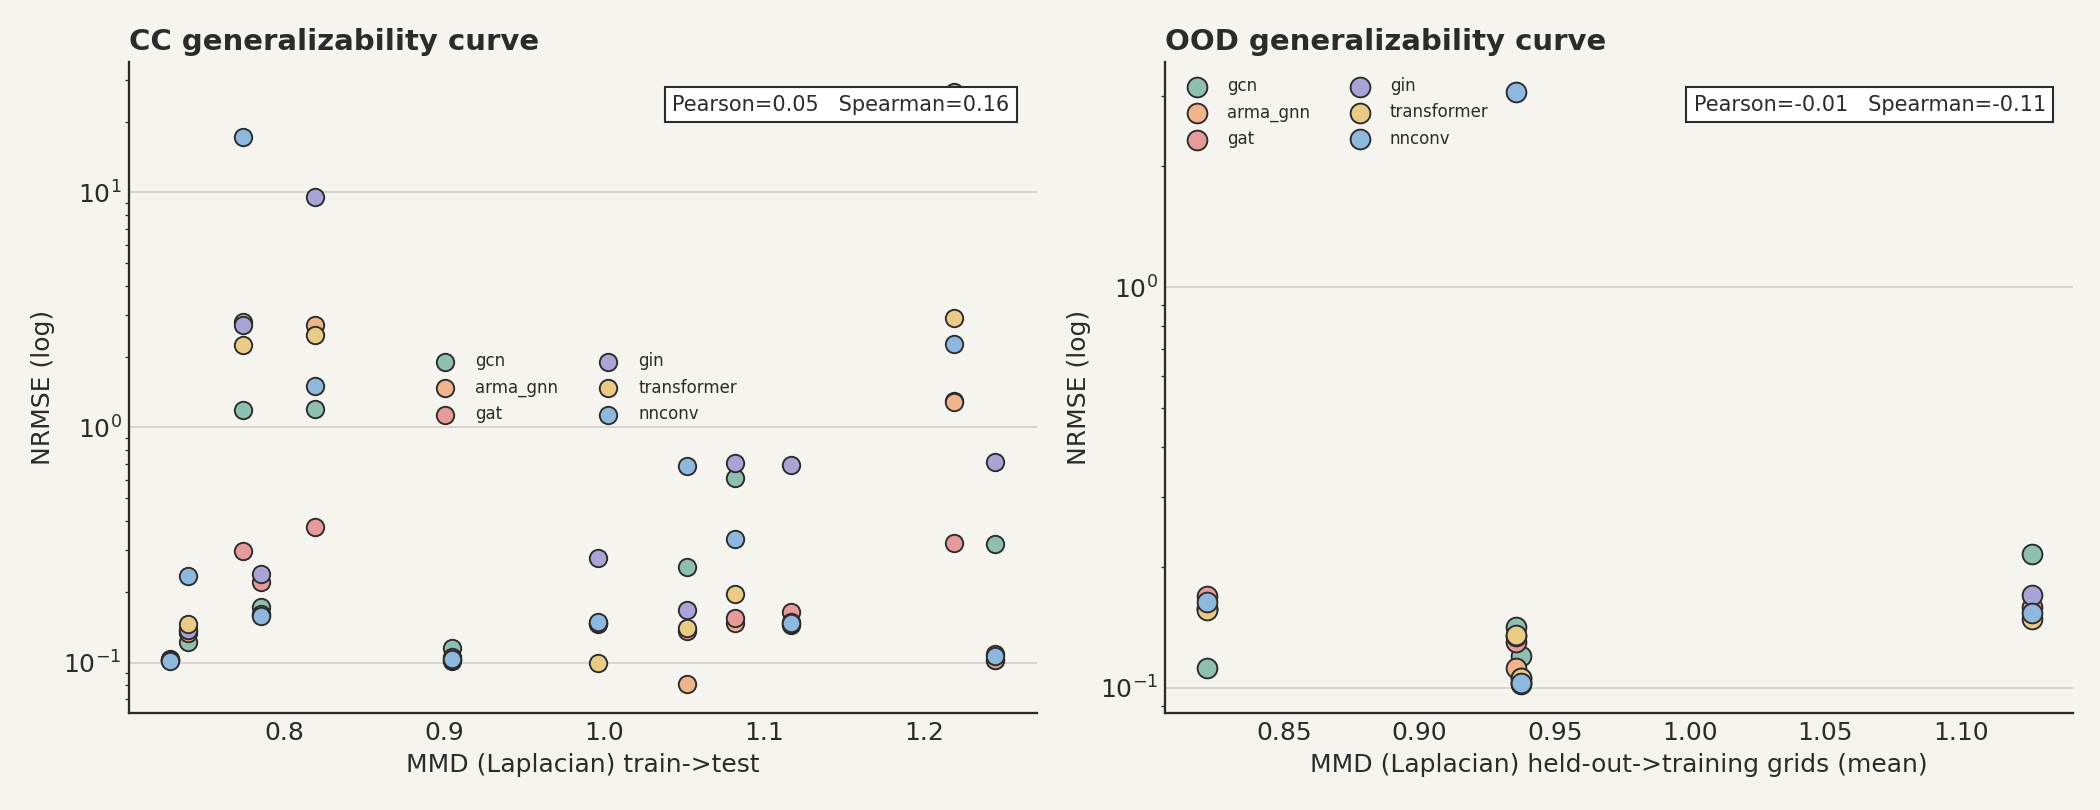
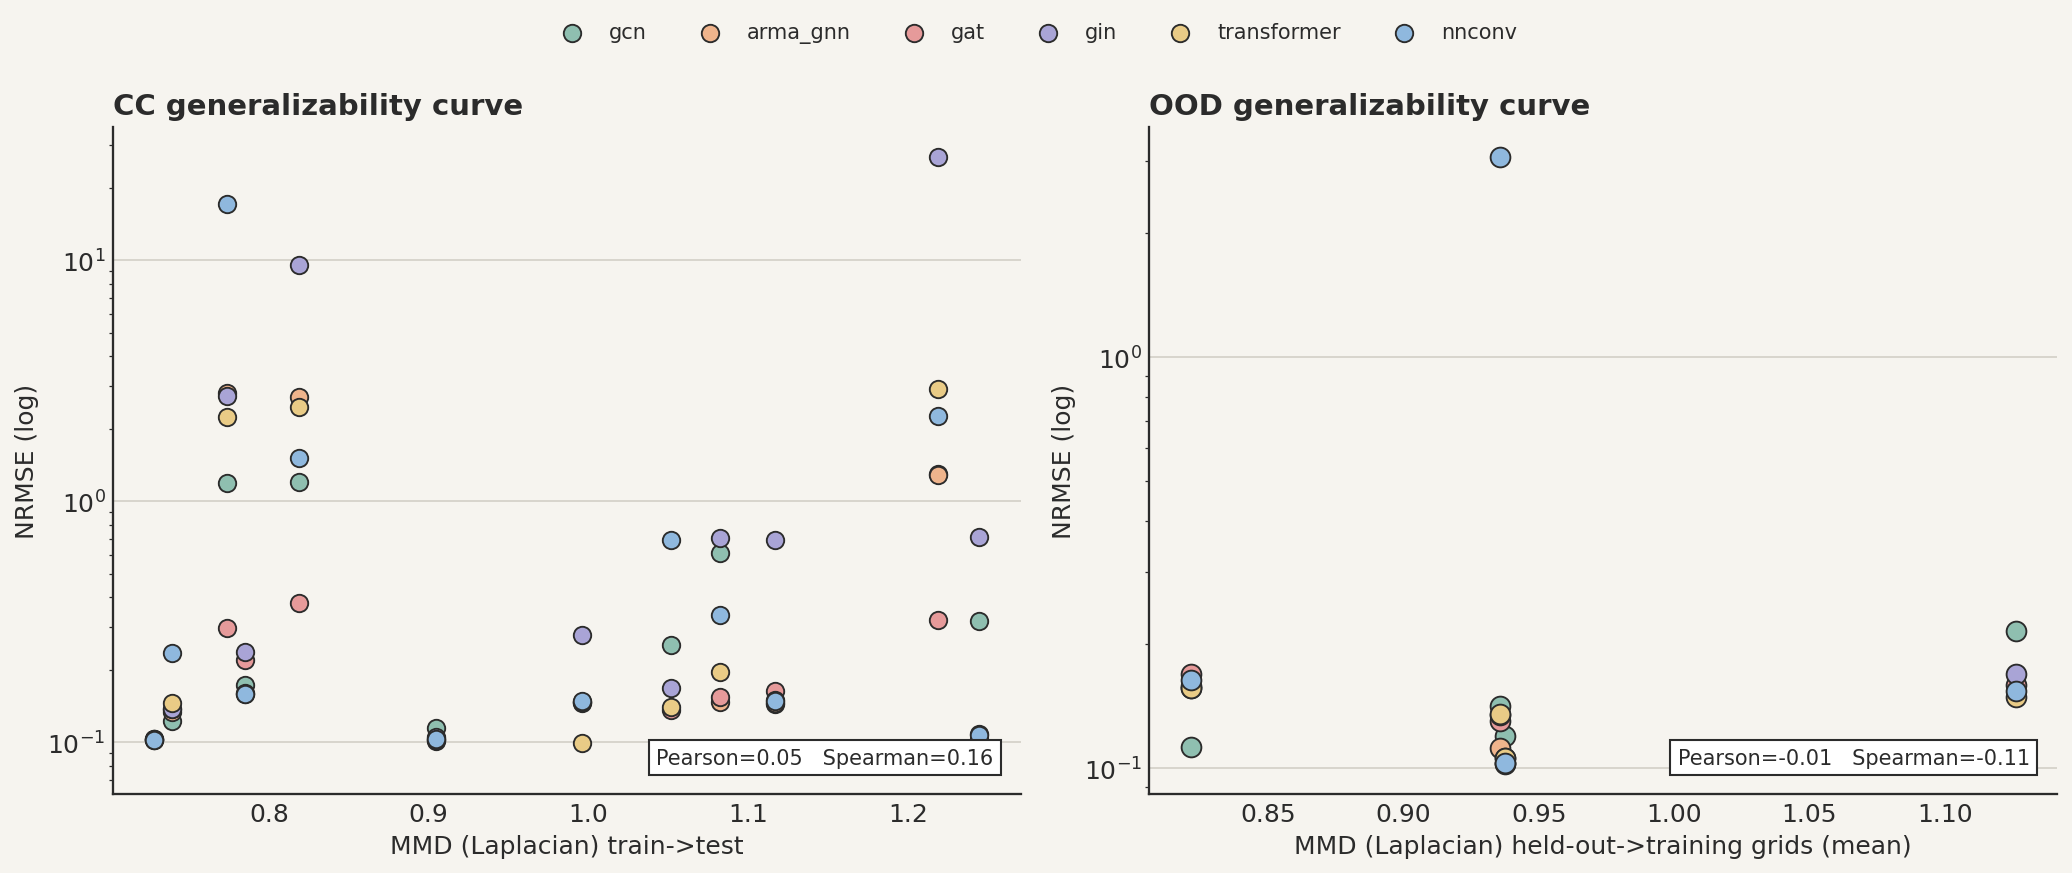
docs: move generalizability-curve legend above panels (was overlapping data); relocate correlation labels

diff --git a/full_run/results/make_figures.py b/full_run/results/make_figures.py
@@ -198,7 +198,7 @@ plt.close(fig)
 # ----------------------------------------------------------------------------
 # 4. Generalizability curve: MMD vs NRMSE (CC off-diagonal, and OOD)
 # ----------------------------------------------------------------------------
-fig, axes = plt.subplots(1, 2, figsize=(14, 5.4))
+fig, axes = plt.subplots(1, 2, figsize=(14, 5.8))
 # CC
 xs, ys = [], []
 for m in models:
@@ -215,7 +215,6 @@ axes[0].set_yscale("log")
 axes[0].set_xlabel("MMD (Laplacian) train->test")
 axes[0].set_ylabel("NRMSE (log)")
 axes[0].set_title("CC generalizability curve", loc="left")
-axes[0].legend(fontsize=8, ncol=2, frameon=False)
 style(axes[0])
 # OOD
 xs2, ys2 = [], []
@@ -233,15 +232,18 @@ axes[1].set_yscale("log")
 axes[1].set_xlabel("MMD (Laplacian) held-out->training grids (mean)")
 axes[1].set_ylabel("NRMSE (log)")
 axes[1].set_title("OOD generalizability curve", loc="left")
-axes[1].legend(fontsize=8, ncol=2, frameon=False)
 style(axes[1])
-# correlation annotation in axes-fraction coords (top-right)
+# correlation annotation in axes-fraction coords (bottom-right, clear of points)
 for ax, txt in [(axes[0], f"Pearson={pr:.2f}   Spearman={sr:.2f}"),
                 (axes[1], f"Pearson={pr2:.2f}   Spearman={sr2:.2f}")]:
-    ax.text(0.97, 0.95, txt, transform=ax.transAxes, ha="right", va="top",
+    ax.text(0.97, 0.04, txt, transform=ax.transAxes, ha="right", va="bottom",
             fontsize=10, bbox=BOX, zorder=6)
-fig.tight_layout()
-fig.savefig(f"{FIG}/fig_generalizability_curve.png", dpi=150)
+# single shared legend above the panels (out of the data area)
+handles, labels_ = axes[0].get_legend_handles_labels()
+fig.legend(handles, labels_, loc="upper center", ncol=len(models), frameon=False,
+           bbox_to_anchor=(0.5, 1.02), fontsize=10)
+fig.tight_layout(rect=[0, 0, 1, 0.95])
+fig.savefig(f"{FIG}/fig_generalizability_curve.png", dpi=150, bbox_inches="tight")
 plt.close(fig)
 
 # ----------------------------------------------------------------------------